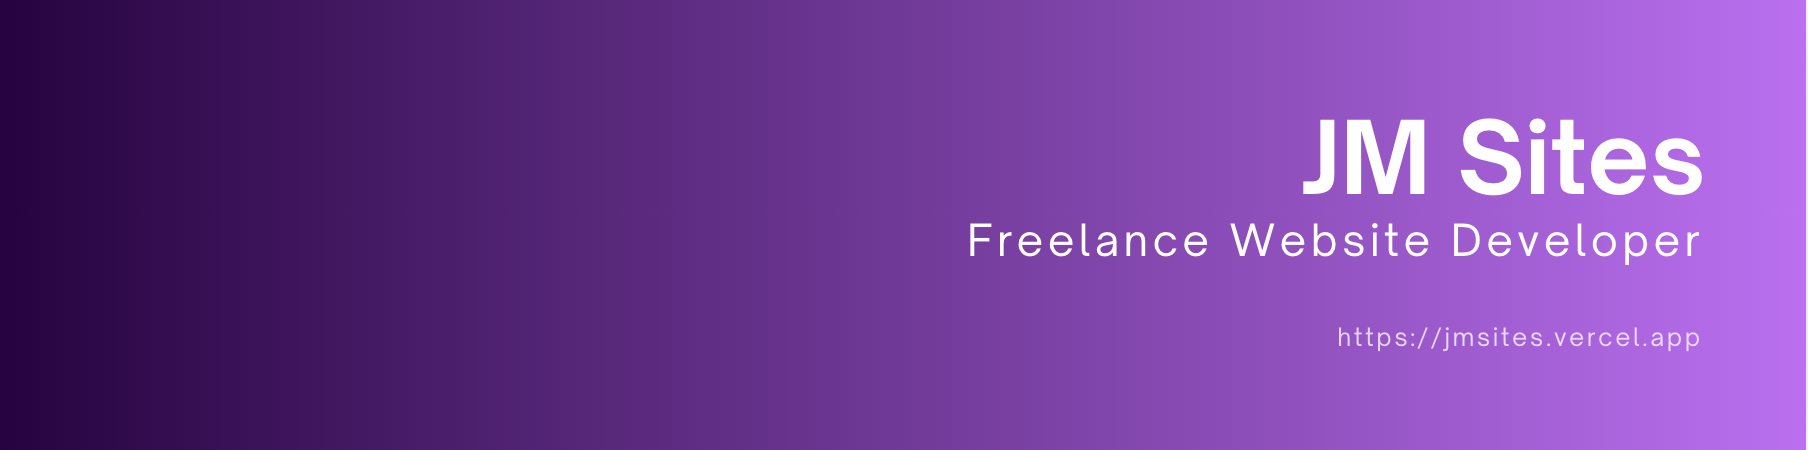
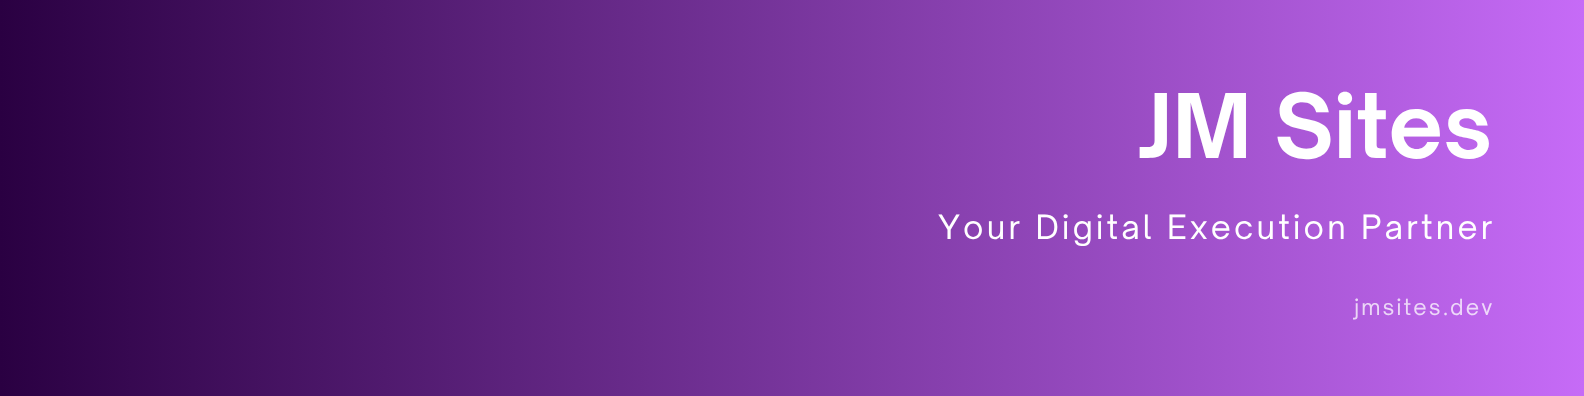
Image Update

diff --git a/index.html b/index.html
@@ -532,6 +532,23 @@
     document.querySelectorAll('.reveal').forEach(el => {
       observer.observe(el);
     });
+
+    export const metadata = {
+  title: 'JM Sites | Premium Web Design by Jess',
+  description: 'Your description here',
+  openGraph: {
+    title: 'JM Sites | Premium Web Design by Jess',
+    description: 'Your description here',
+    url: 'https://jmsites.dev',
+    images: [
+      {
+        url: 'https://jmsites.dev/og-image.jpg',
+        width: 1200,
+        height: 630,
+      },
+    ],
+  },
+}
   </script>
 </body>
 </html>
